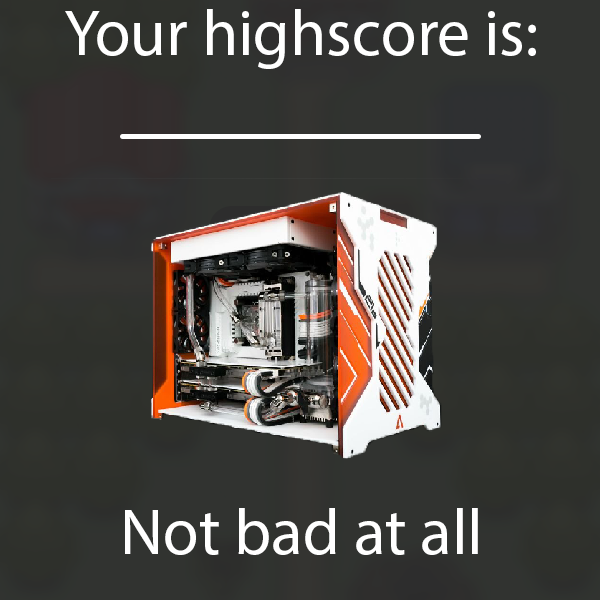
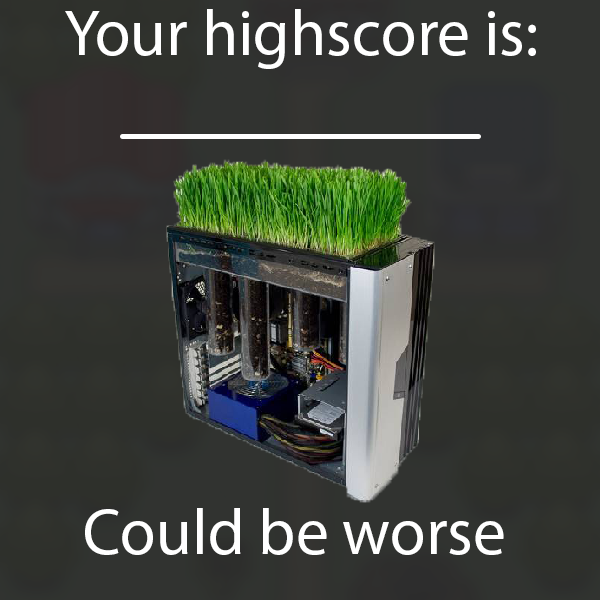
Fixed highscore picture
as title says

Changed region(s): [[0.12, 0.27, 0.84, 0.93]]

diff --git a/SemesterProjekt1/src/presentation/SemesterProjektGUIController.java b/SemesterProjekt1/src/presentation/SemesterProjektGUIController.java
@@ -94,6 +94,11 @@ public class SemesterProjektGUIController implements Initializable {
     Image minimapScrapyardSouthWestRatEastImage = new Image(getClass().getResource("images/MiniMap_ScrapyardSouthWestRat1.png").toExternalForm());
     Image minimapScrapyardSouthWestRatSouthWestImage = new Image(getClass().getResource("images/MiniMap_ScrapyardSouthWestRat3.png").toExternalForm());
     Image magazineImage = new Image(getClass().getResource("images/gamemagazine.jpg").toExternalForm());
+    Image PcScoreJunk = new Image(getClass().getResource("images/junk.png").toExternalForm());
+    Image PcScoreNormal = new Image(getClass().getResource("images/normal.png").toExternalForm());
+    Image PcScoreRare = new Image(getClass().getResource("images/rare.png").toExternalForm());
+    Image PcScoreEpic = new Image(getClass().getResource("images/epic.png").toExternalForm());
+    Image PcScoreLegendary = new Image(getClass().getResource("images/legendary.png").toExternalForm());
     @FXML
     private Button UseButton;
     @FXML
@@ -841,6 +846,21 @@ public class SemesterProjektGUIController implements Initializable {
             Item3BuildPCLabel.setVisible(false);
             TotalScoreBuildPCLabel.setVisible(false);
             WinOrLoseBuildPCLabel.setVisible(false);
+        }
+         if(game.wallet()<1600){
+            OutroScreen.setImage(PcScoreJunk);
+        }
+        else if(game.wallet()<3000){
+            OutroScreen.setImage(PcScoreNormal);
+        }
+        else if(game.wallet()<7500){
+            OutroScreen.setImage(PcScoreRare);
+        }
+        else if(game.wallet()<12500){
+            OutroScreen.setImage(PcScoreEpic);
+        }
+        else if(game.wallet()>=12500){
+            OutroScreen.setImage(PcScoreLegendary);
         }
     }
     /**
